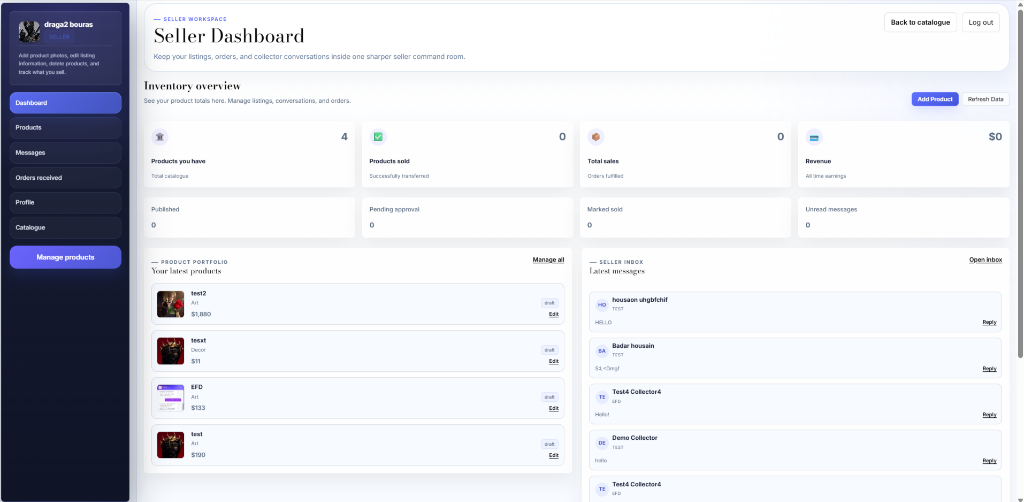
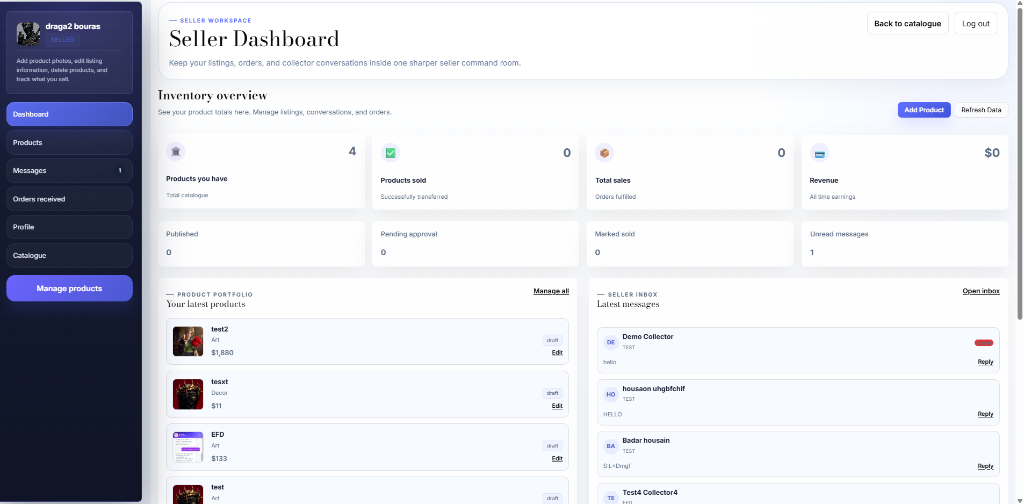
Update presentation deck screenshots and add collector slide with centered mock frames

diff --git a/frontend/src/SoutenanceDeck.tsx b/frontend/src/SoutenanceDeck.tsx
@@ -40,6 +40,9 @@ import adminDashboardImg from './assets/docs/admin_dashboard.png'
 import sellerDashboardImg from './assets/docs/seller_dashboard.png'
 import catalogueImg from './assets/docs/catalogue.png'
 import messagesImg from './assets/docs/messages.png'
+import collectorDashboardImg from './assets/docs/collector_dashboard.png'
+import wishlistImg from './assets/docs/wishlist.png'
+import cartImg from './assets/docs/cart.png'
 
 // Reusable Filigree Corner Brackets Component
 function FiligreeCorners({ colorClass = "border-[#c8d7ef]/20" }: { colorClass?: string }) {
@@ -330,7 +333,7 @@ export function SoutenanceDeck() {
     },
     {
       id: 10,
-      title: "11. Démo : Espaces Publics",
+      title: "11. Démo : Portail Public & Catalogue",
       type: "screenshots_public",
       content: {
         title: "Démonstration : Portail Public & Catalogue",
@@ -343,21 +346,45 @@ export function SoutenanceDeck() {
     },
     {
       id: 11,
-      title: "12. Démo : Espaces de Gestion",
-      type: "screenshots_pro",
+      title: "12. Démo : Espace Vendeur",
+      type: "screenshots_public",
       content: {
-        title: "Démonstration : Espaces Métiers & Messagerie",
-        subtitle: "Workspace vendeur, outils administratifs et messagerie privee",
+        title: "Démonstration : Espace Vendeur",
+        subtitle: "Workspace d'activité et de gestion pour le vendeur",
         screens: [
-          { title: "Dashboard Vendeur", img: sellerDashboardImg, desc: "Outils de suivi des gains, d'expedition de commandes et d'inventaire d'artefacts." },
-          { title: "Espace Administration", img: adminDashboardImg, desc: "Workspace central de moderation d'objets soumis et d'activation utilisateur." },
-          { title: "Messagerie Interne", img: messagesImg, desc: "Messagerie filaire securisee reliant directement acheteurs et vendeurs autour d'un objet." }
+          { title: "Dashboard Vendeur", img: sellerDashboardImg, desc: "Outils de suivi des gains, d'expédition de commandes et d'inventaire d'artefacts." }
         ]
       }
     },
     {
       id: 12,
-      title: "13. Bilan & Perspectives",
+      title: "13. Démo : Messagerie & Négociations",
+      type: "screenshots_public",
+      content: {
+        title: "Démonstration : Messagerie & Négociations",
+        subtitle: "Messagerie filaire sécurisée reliant directement acheteurs et vendeurs autour d'un objet",
+        screens: [
+          { title: "Messagerie Interne", img: messagesImg, desc: "Fil de discussion direct entre acheteur et vendeur pour négocier le prix et valider les détails." }
+        ]
+      }
+    },
+    {
+      id: 13,
+      title: "14. Démo : Espace Collectionneur",
+      type: "screenshots_public",
+      content: {
+        title: "Démonstration : Espace Collectionneur",
+        subtitle: "Espace personnel du collectionneur, liste de souhaits et panier d'achat",
+        screens: [
+          { title: "Dashboard Collectionneur", img: collectorDashboardImg, desc: "Suivi des commandes passées, des articles achetés et de l'état de livraison." },
+          { title: "Liste de Souhaits", img: wishlistImg, desc: "Liste de favoris (wishlist) pour conserver et suivre ses coups de cœur." },
+          { title: "Panier d'Achat", img: cartImg, desc: "Panier d'achat réactif pour regrouper ses objets précieux avant la validation de commande." }
+        ]
+      }
+    },
+    {
+      id: 14,
+      title: "15. Bilan & Perspectives",
       type: "synthesis",
       content: {
         title: "Bilan du Projet & Perspectives",
@@ -1186,68 +1213,114 @@ export function SoutenanceDeck() {
 function ScreenshotShowcase({ screens }: { screens: Array<{ title: string; img: string; desc: string }> }) {
   const [activeIdx, setActiveIdx] = useState(0)
 
+  useEffect(() => {
+    setActiveIdx(0)
+  }, [screens])
+
+  const hasMultiple = screens.length > 1
+
   return (
-    <div className="grid grid-cols-1 lg:grid-cols-12 gap-8 items-stretch mt-2 w-full max-w-[1400px] mx-auto px-8">
-      {/* Left Menu Selection (Takes 3 columns) */}
-      <div className="lg:col-span-3 space-y-4 flex flex-col justify-center">
-        {screens.map((screen, idx) => (
-          <button
-            key={idx}
-            onClick={() => setActiveIdx(idx)}
-            className={`w-full text-left p-5 rounded-2xl border transition-all flex items-center gap-4 ${
-              activeIdx === idx
-                ? 'bg-[#5f70ff]/10 border-[#5f70ff] text-white shadow-[0_0_15px_rgba(95,112,255,0.08)]'
-                : 'bg-[#0f1426]/60 border-[#c8d7ef]/15 text-teal-100/60 hover:bg-white/[0.03]'
-            }`}
-          >
-            <span className={`h-8 w-8 rounded-xl flex items-center justify-center font-mono text-sm ${
-              activeIdx === idx ? 'bg-[#5f70ff]/25 text-[#7d8bff]' : 'bg-white/5 text-teal-100/40'
-            }`}>
-              {idx + 1}
-            </span>
-            <div className="text-left">
-              <p className="text-base md:text-lg font-semibold leading-tight font-serif">{screen.title}</p>
+    <div className="w-full max-w-[1400px] mx-auto px-8 mt-2">
+      {hasMultiple ? (
+        <div className="grid grid-cols-1 lg:grid-cols-12 gap-8 items-stretch">
+          {/* Left Menu Selection (Takes 3 columns) */}
+          <div className="lg:col-span-3 space-y-4 flex flex-col justify-center">
+            {screens.map((screen, idx) => (
+              <button
+                key={idx}
+                onClick={() => setActiveIdx(idx)}
+                className={`w-full text-left p-5 rounded-2xl border transition-all flex items-center gap-4 ${
+                  activeIdx === idx
+                    ? 'bg-[#5f70ff]/10 border-[#5f70ff] text-white shadow-[0_0_15px_rgba(95,112,255,0.08)]'
+                    : 'bg-[#0f1426]/60 border-[#c8d7ef]/15 text-teal-100/60 hover:bg-white/[0.03]'
+                }`}
+              >
+                <span className={`h-8 w-8 rounded-xl flex items-center justify-center font-mono text-sm ${
+                  activeIdx === idx ? 'bg-[#5f70ff]/25 text-[#7d8bff]' : 'bg-white/5 text-teal-100/40'
+                }`}>
+                  {idx + 1}
+                </span>
+                <div className="text-left">
+                  <p className="text-base md:text-lg font-semibold leading-tight font-serif">{screen.title}</p>
+                </div>
+              </button>
+            ))}
+          </div>
+
+          {/* Right Browser Chrome replica image view (Takes 9 columns) */}
+          <div className="lg:col-span-9 flex flex-col browser-frame">
+            {/* Browser Mock Header */}
+            <div className="browser-header">
+              <div className="browser-dots">
+                <span className="browser-dot red" />
+                <span className="browser-dot yellow" />
+                <span className="browser-dot green" />
+              </div>
+              <div className="browser-address">
+                localhost:5173/artifacts/showcase
+              </div>
+              <div className="w-16" />
             </div>
-          </button>
-        ))}
-      </div>
 
-      {/* Right Browser Chrome replica image view (Takes 9 columns - much larger!) */}
-      <div className="lg:col-span-9 flex flex-col browser-frame">
-        {/* Browser Mock Header */}
-        <div className="browser-header">
-          <div className="browser-dots">
-            <span className="browser-dot red" />
-            <span className="browser-dot yellow" />
-            <span className="browser-dot green" />
+            {/* Screenshot Viewport (Enlarged) */}
+            <div className="relative overflow-hidden h-[48vh] max-h-[440px] bg-[#0b0e1a]">
+              <AnimatePresence mode="wait">
+                <motion.img
+                  key={activeIdx}
+                  src={screens[activeIdx].img}
+                  alt={screens[activeIdx].title}
+                  initial={{ opacity: 0, scale: 0.995 }}
+                  animate={{ opacity: 1, scale: 1 }}
+                  exit={{ opacity: 0, scale: 0.995 }}
+                  transition={{ duration: 0.25 }}
+                  className="w-full h-full object-cover object-top"
+                />
+              </AnimatePresence>
+            </div>
+
+            {/* Captions */}
+            <p className="text-sm md:text-base text-teal-100/80 font-mono leading-relaxed bg-[#0e1428] p-5 border-t border-[#c8d7ef]/10">
+              💡 <span className="font-semibold text-[#e5c590] font-serif">{screens[activeIdx].title} :</span> {screens[activeIdx].desc}
+            </p>
           </div>
-          <div className="browser-address">
-            localhost:5173/artifacts/showcase
+        </div>
+      ) : (
+        <div className="max-w-[1000px] mx-auto flex flex-col browser-frame">
+          {/* Browser Mock Header */}
+          <div className="browser-header">
+            <div className="browser-dots">
+              <span className="browser-dot red" />
+              <span className="browser-dot yellow" />
+              <span className="browser-dot green" />
+            </div>
+            <div className="browser-address">
+              localhost:5173/artifacts/showcase
+            </div>
+            <div className="w-16" />
           </div>
-          <div className="w-16" />
-        </div>
 
-        {/* Screenshot Viewport (Enlarged) */}
-        <div className="relative overflow-hidden aspect-video bg-[#0b0e1a]">
-          <AnimatePresence mode="wait">
-            <motion.img
-              key={activeIdx}
-              src={screens[activeIdx].img}
-              alt={screens[activeIdx].title}
-              initial={{ opacity: 0, scale: 0.995 }}
-              animate={{ opacity: 1, scale: 1 }}
-              exit={{ opacity: 0, scale: 0.995 }}
-              transition={{ duration: 0.25 }}
-              className="w-full h-[48vh] max-h-[440px] object-cover"
-            />
-          </AnimatePresence>
-        </div>
+          {/* Screenshot Viewport (Enlarged) */}
+          <div className="relative overflow-hidden h-[48vh] max-h-[440px] bg-[#0b0e1a]">
+            <AnimatePresence mode="wait">
+              <motion.img
+                key={activeIdx}
+                src={screens[activeIdx].img}
+                alt={screens[activeIdx].title}
+                initial={{ opacity: 0, scale: 0.995 }}
+                animate={{ opacity: 1, scale: 1 }}
+                exit={{ opacity: 0, scale: 0.995 }}
+                transition={{ duration: 0.25 }}
+                className="w-full h-full object-cover object-top"
+              />
+            </AnimatePresence>
+          </div>
 
-        {/* Captions */}
-        <p className="text-sm md:text-base text-teal-100/80 font-mono leading-relaxed bg-[#0e1428] p-5 border-t border-[#c8d7ef]/10">
-          💡 <span className="font-semibold text-[#e5c590] font-serif">{screens[activeIdx].title} :</span> {screens[activeIdx].desc}
-        </p>
-      </div>
+          {/* Captions */}
+          <p className="text-sm md:text-base text-teal-100/80 font-mono leading-relaxed bg-[#0e1428] p-5 border-t border-[#c8d7ef]/10">
+            💡 <span className="font-semibold text-[#e5c590] font-serif">{screens[activeIdx].title} :</span> {screens[activeIdx].desc}
+          </p>
+        </div>
+      )}
     </div>
   )
 }
